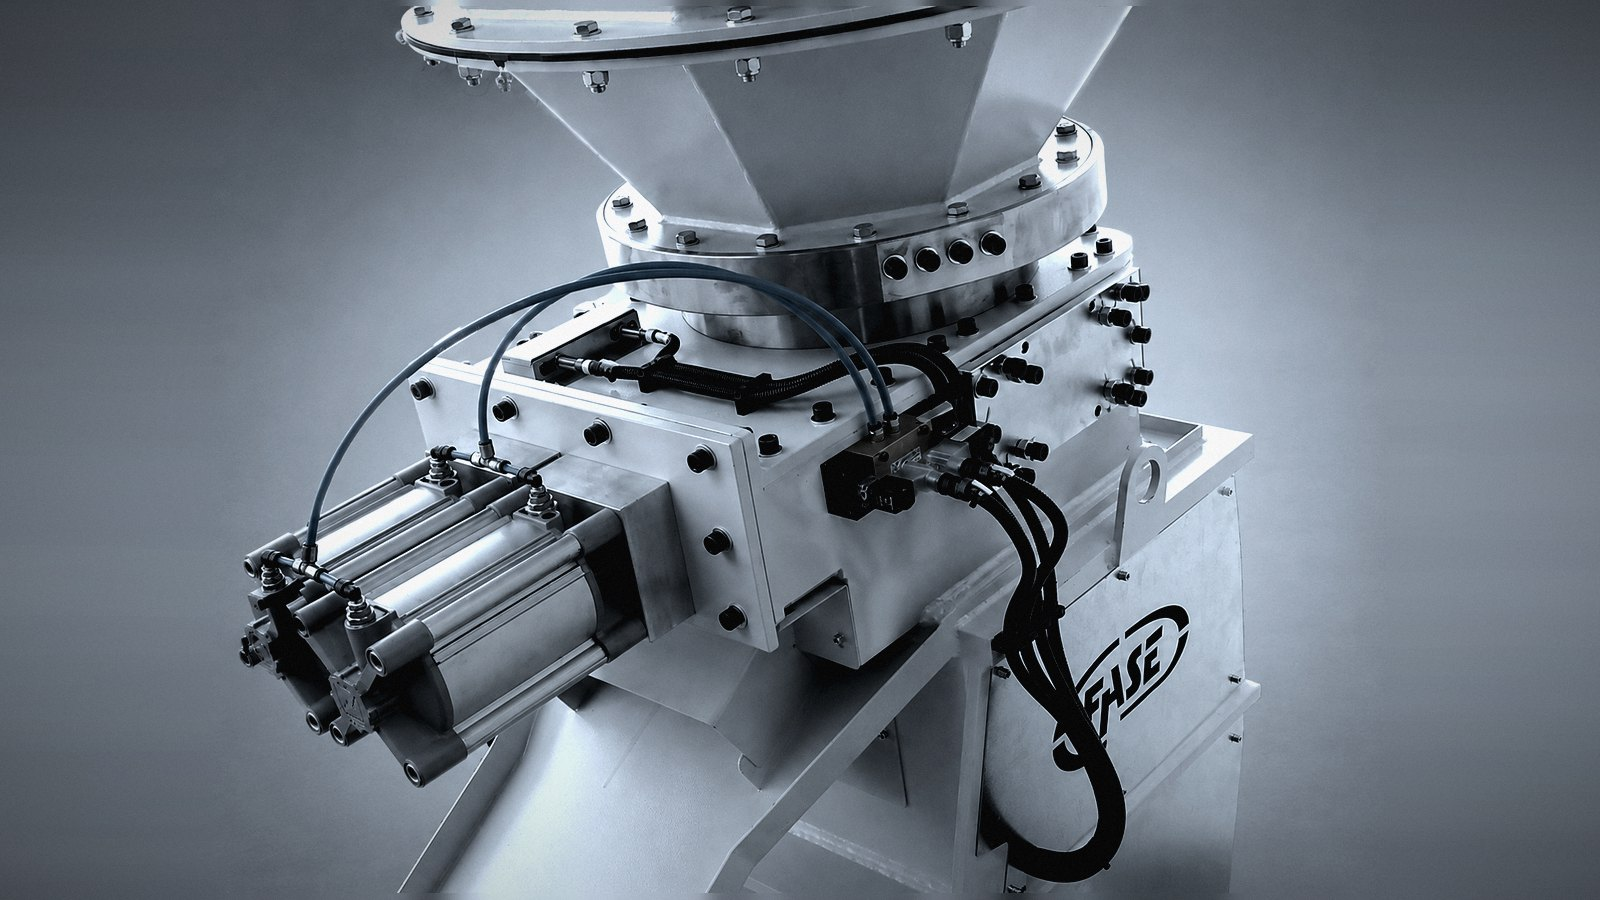
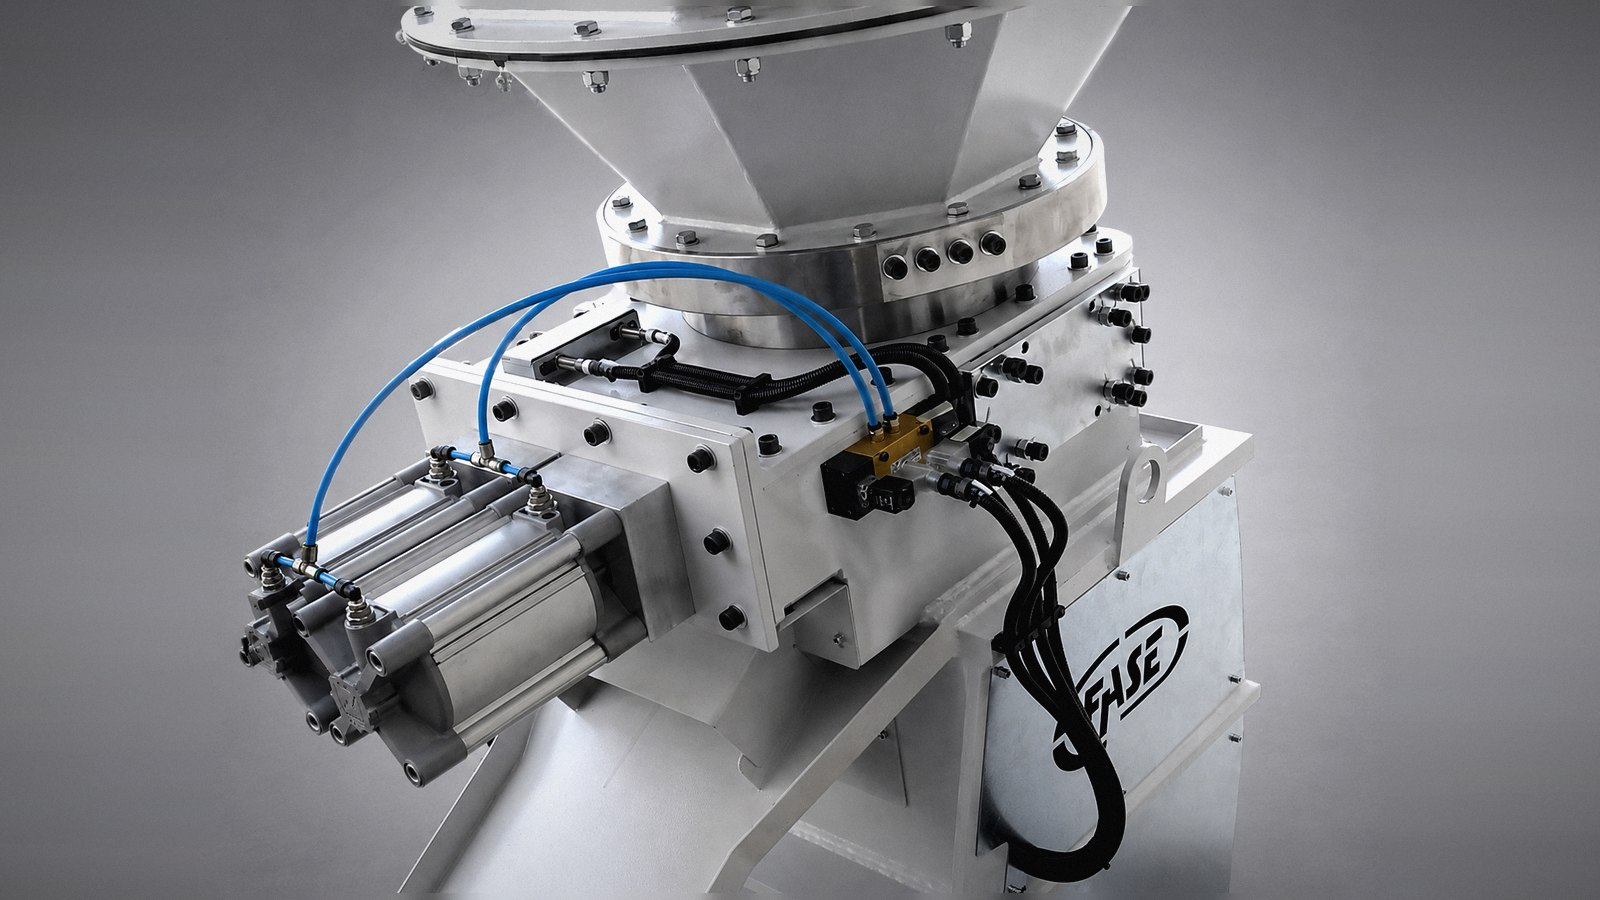
Ripristina i colori originali delle macchine
La desaturazione al 13% e la dominante fredda portavano le fotografie al
quasi monocromo del riferimento, ma erano un intervento sul prodotto e non
sull'atmosfera: le macchine perdevano il blu dei motori, il verde delle
carpenterie, il rosso del marchio.

Via desaturazione e dominante. Resta quello che le integra davvero senza
toccare il prodotto: il taglio sull'ingombro della macchina, il
riempimento del 16:9, la curva che scurisce il fondo da studio e apre i
neri, la vignettatura che fa emergere la macchina dal buio, la grana.

Verificato sulle tinte: verde 105,8 -> 108,3 gradi, basamento blu 234,8 ->
235,0, con la saturazione delle parti colorate che resta fra il 30 e il
44 per cento come negli originali.

diff --git a/README.md b/README.md
@@ -132,11 +132,16 @@ stanno in `assets/img/trituratori/`, ricavate dagli scatti in posa del
 committente e portate a 1600x900.
 
 Il riferimento e' `assets/img/trasmissione-16x9.jpg`, la fotografia della
-sezione "Sistemi": quasi monocroma, acciaio freddo, neri pieni, grana fine,
-fotogramma occupato fino ai bordi. Gli scatti di prodotto, chiari e su fondo
-grigio uniforme, accanto a quella sembravano ritagli di catalogo incollati sul
-sito. Il trattamento li porta alla stessa lingua, **senza toccare soggetto,
-geometria o composizione**: solo taglio, luce, colore e materia.
+sezione "Sistemi": neri pieni, grana fine, fotogramma occupato fino ai bordi.
+Gli scatti di prodotto, chiari e su fondo grigio uniforme, accanto a quella
+sembravano ritagli di catalogo incollati sul sito.
+
+Quello che li integra e' **il taglio, il fondo e la luce, non il colore**. Le
+macchine tengono le loro tinte: il blu dei motori, il verde delle carpenterie,
+il rosso del marchio. Una prima versione le portava al quasi monocromo del
+riferimento — sbagliato: quello e' un intervento sul prodotto, non
+sull'atmosfera. Soggetto, geometria, composizione e colori restano quelli
+fotografati.
 
 1. **Taglio.** Il fondo da studio e' liscio, quello che se ne discosta e' la
    macchina: si misura il suo ingombro e si taglia li'. Cosi' la figura passa
@@ -144,10 +149,11 @@ geometria o composizione**: solo taglio, luce, colore e materia.
    il fondo non aiuta e il riquadro e' scritto a mano in `TAGLI`.
 2. **Riempimento.** Gli originali sono 4:3: i bordi della figura si allungano
    fino ai lati della tela invece di lasciare bande.
-3. **Resa.** Colore all'13% con dominante fredda, curva che scurisce i medi
-   (gamma 1,34) e apre i neri, contrasto 1,11.
-4. **Vignettatura** decisa, che spegne i bordi: e' quella che fa emergere la
-   macchina dal buio e nasconde l'attacco del riempimento.
+3. **Luce.** Una curva scurisce i medi — cioe' il fondo da studio — e apre i
+   neri (gamma 1,16), con un filo di contrasto. Non tocca la tinta: nessuna
+   desaturazione, nessuna dominante.
+4. **Vignettatura**, che spegne i bordi: e' quella che fa emergere la macchina
+   dal buio e nasconde l'attacco del riempimento.
 5. **Grana** al 6% su tutto, che rimette insieme figura e fondo.
 
 Lo script sta in `/tmp` e non nel repo: le immagini sono file finiti, si
